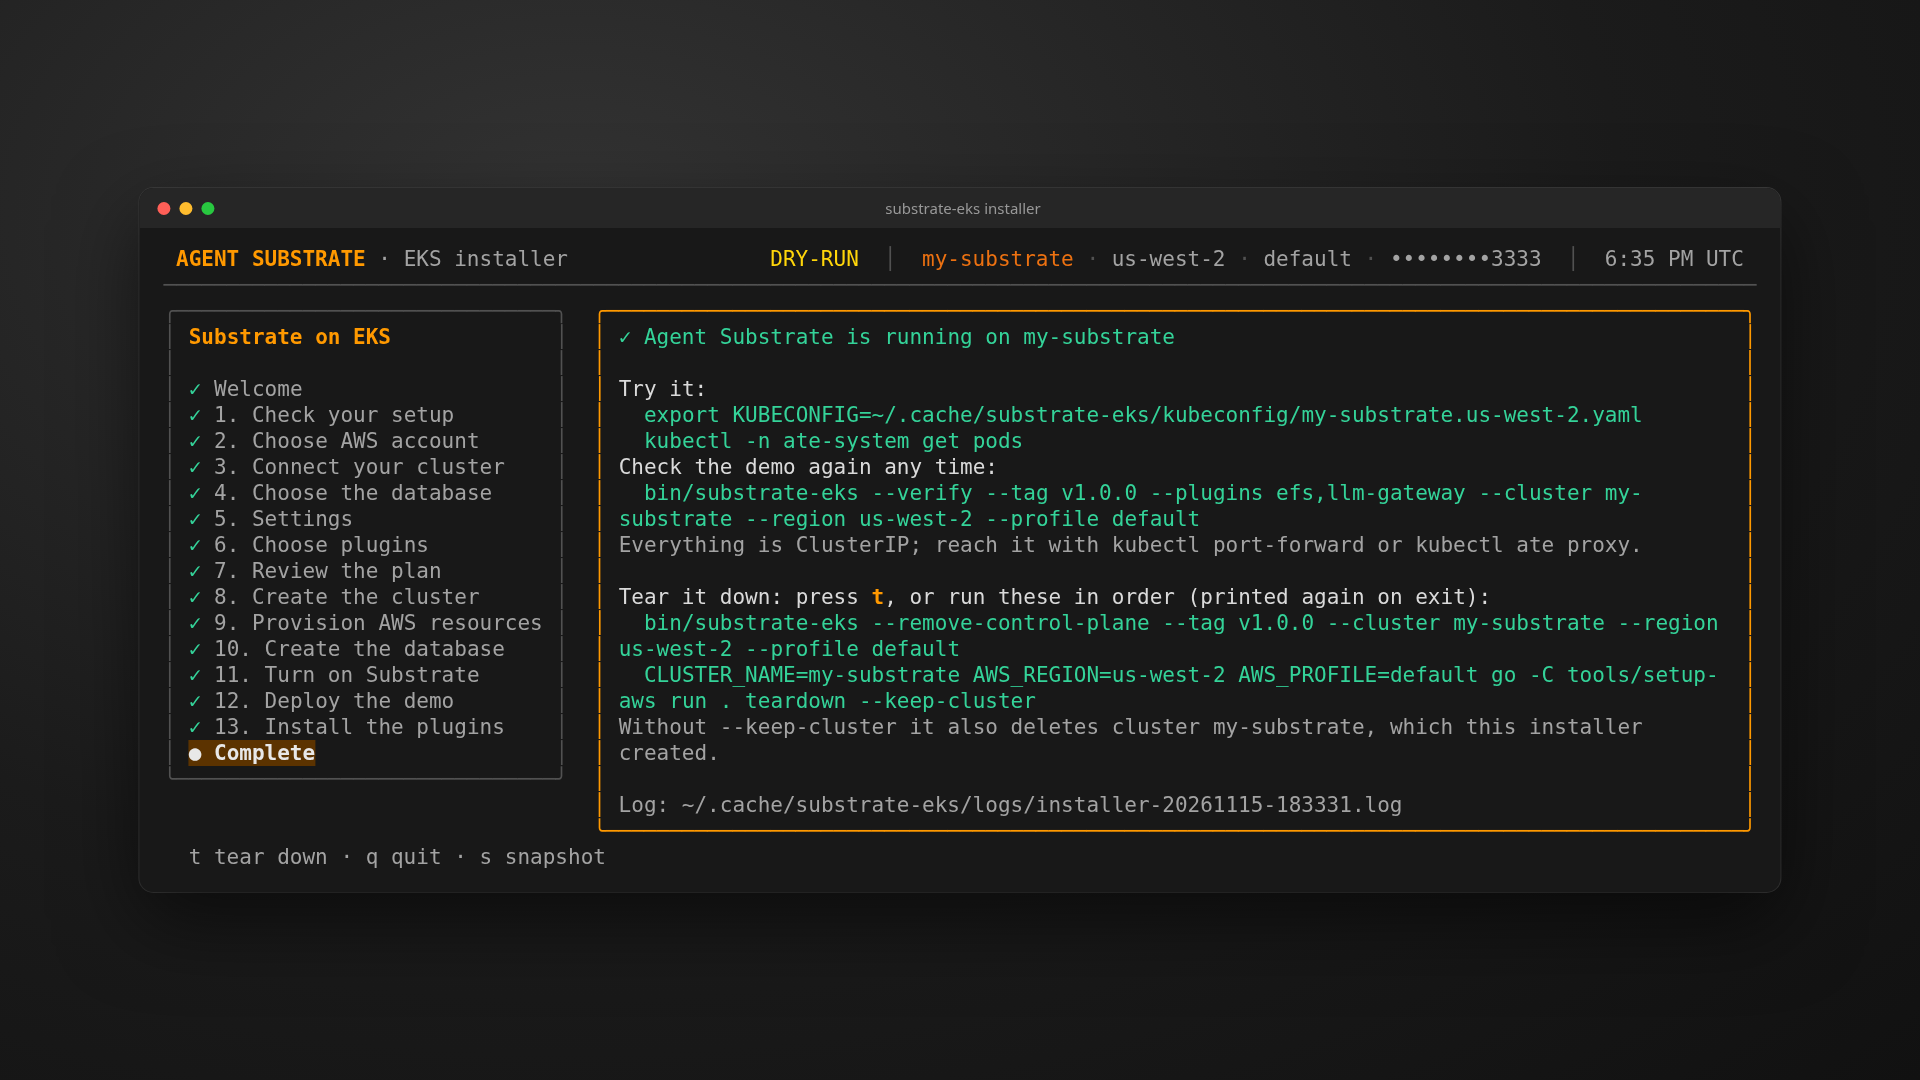
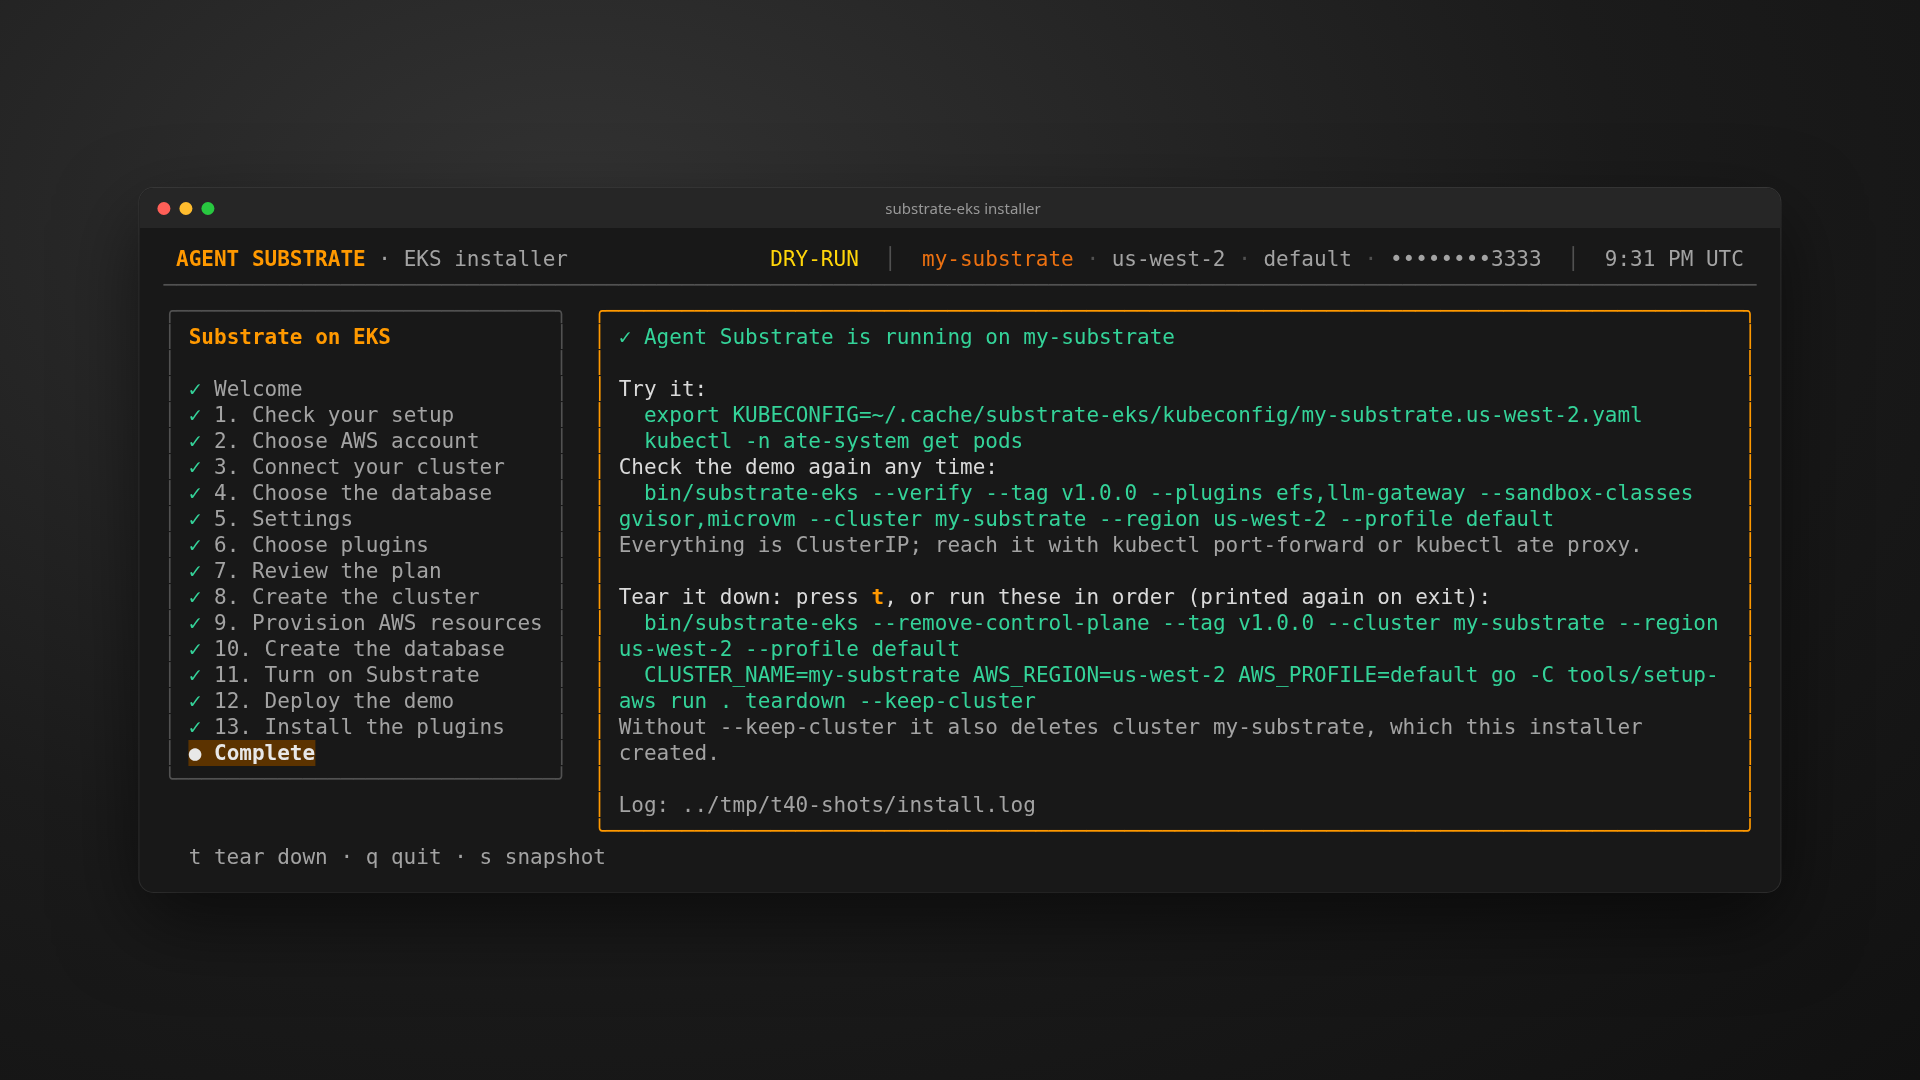
docs: re-render the Settings, Choose plugins, Review and Complete screenshots
What was wrong: four of the eight wizard screenshots no longer showed what
the wizard draws. Settings has a "Sandbox classes" section (gVisor,
microVM, the AWS Nitro sandbox, and m for the minimal profile) above the
node groups; Choose plugins no longer lists mode 3 on isolated sandboxes
(it is the nitro class now); Review has a "Node groups:" line and
"classes gvisor,microvm"; Complete's verify command carries
--sandbox-classes. The plugins image's alt text in README.md and
native/README.md still named "mode 3 ... on isolated sandboxes".

Fix: made the way cef1907 made them, on this branch's build (b129bdb):
make -C native build, bin/substrate-eks --dry-run --profile default
--region us-west-2 in a 126x36 tmux window (COLORTERM=truecolor), a new
cluster my-substrate, RDS, llm-gateway and efs, s on every screen through
Complete; then --dry-run --teardown --cluster my-substrate through Delete
AWS resources. node native/installer/docs/render.mjs wrote settings,
plugins, review and complete at 1920x1080. The alt text now ends "and
mode 3 on Kata".

Checked: each new snapshot's .txt was compared with the one the old image
came from (T39's snap-c and snap-d, matched by the PNGs' md5), clock line
aside. cluster, install-plugins, teardown and delete-aws are unchanged
and were not re-rendered. All four new images were viewed. Review at 36
rows now shows each command on one line, cut at the left ("$ ...WS_REGION=
[…]

diff --git a/README.md b/README.md
@@ -149,7 +149,7 @@ with the reason, when it needs Auto Mode on a cluster without it, or runs on
 a node group the cluster will not have (the LLM gateway on the `system`
 group, OpenClaw on `gvisor`).
 
-![Choose plugins: the LLM gateway, EFS and S3 Files volumes, the Secrets Manager credential provider and login rotation, OpenClaw, and mode 3 on Kata and on isolated sandboxes](native/installer/docs/plugins.png)
+![Choose plugins: the LLM gateway, EFS and S3 Files volumes, the Secrets Manager credential provider and login rotation, OpenClaw, and mode 3 on Kata](native/installer/docs/plugins.png)
 
 **Review the plan** shows every command in order, its time and its hourly
 cost. Nothing changes in AWS before you press `y`. The install then writes

diff --git a/native/README.md b/native/README.md
@@ -137,7 +137,7 @@ make verify AWS_PROFILE=my-profile AWS_REGION=us-west-2 CLUSTER_NAME=my-cluster
 
 ## The wizard
 
-![Choose plugins: the LLM gateway, EFS and S3 Files volumes, the Secrets Manager credential provider and login rotation, OpenClaw, and mode 3 on Kata and on isolated sandboxes](installer/docs/plugins.png)
+![Choose plugins: the LLM gateway, EFS and S3 Files volumes, the Secrets Manager credential provider and login rotation, OpenClaw, and mode 3 on Kata](installer/docs/plugins.png)
 
 The screens, in order: Welcome, Check your setup (the tools and your AWS
 identity), Choose AWS account, Connect your cluster (the clusters in the
